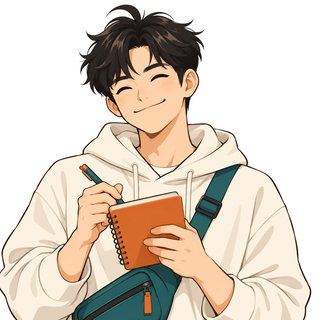
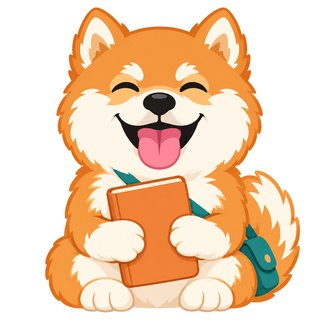
feat(xiaoshuai): 月曆網頁的小帥換成柴犬（Codex 照本尊照片畫的插畫）
- 頭像：瞇眼吐舌的柴犬臉；空白日插圖：抱著暖橘筆記本、背青綠小包
- 空白日插圖改圓角方框、整張放得下（不裁到耳朵）

diff --git a/plugins/xiaoshuai/calendar.js b/plugins/xiaoshuai/calendar.js
@@ -507,7 +507,7 @@ export function pageHtml({ title, items, today, updated, legend = false }) {
   .ev .sub { font-size:11.5px; color:var(--sub); margin-top:2px; }
   .go { display:inline-block; margin-top:4px; font-size:12.5px; color:var(--main); text-decoration:none; font-weight:600; }
   .empty { margin:4px 12px 12px; display:flex; gap:12px; align-items:center; background:var(--card); border-radius:14px; padding:12px; font-size:14px; color:var(--sub); }
-  .empty .av { width:64px; height:64px; }
+  .empty .av { width:72px; height:72px; border-radius:16px; background-size:contain; }
   .empty.big { flex-direction:column; text-align:center; padding:20px 12px; }
   .empty.big .av { width:120px; height:120px; border-radius:24px; }
   .foot { display:flex; gap:8px; align-items:center; justify-content:center; padding:18px 16px 8px; font-size:12px; color:var(--sub); }
